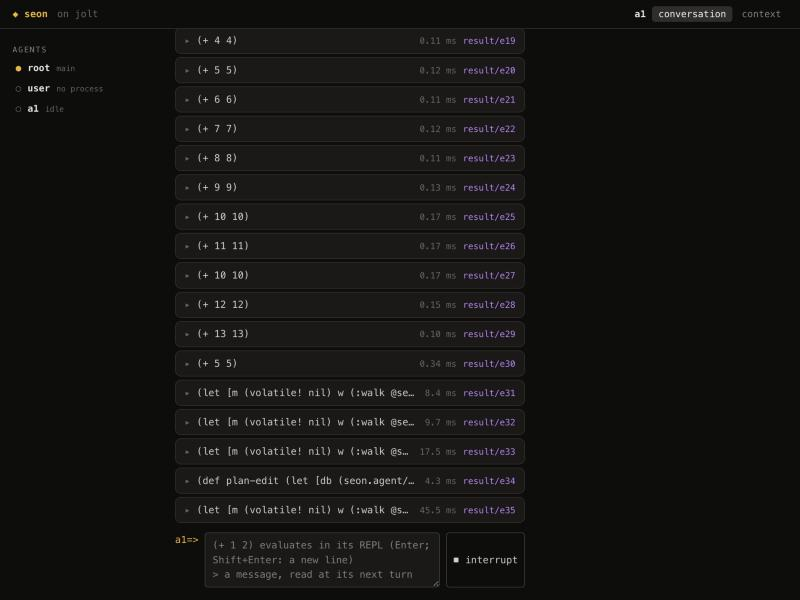
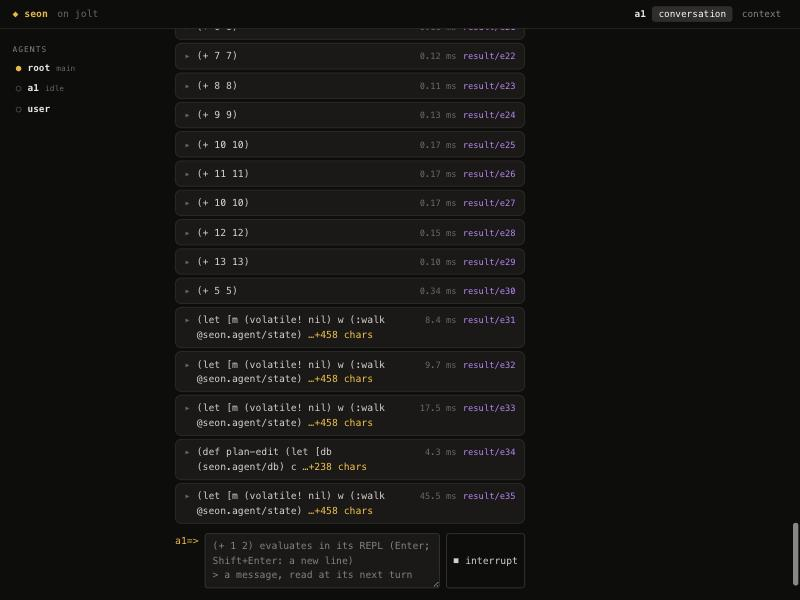
bin/prove's reds: the clocks law's quoted site is under render-test/task now; main's my.root/source-changes named among the cuts; root reads its tiles first, its test says so

diff --git a/docs/clocks.md b/docs/clocks.md
@@ -57,7 +57,7 @@ A bound passed under another name, which the marks do not see; each is owed its 
 
 Names that look like clock reads but are quoted as data, so no time decides at these sites.
 
-- `seon.program-test/var-row` (the form after it records a guarded function's source, `Thread/sleep` and a timed `deref` as text) and `seon.render-test/long-text` (the test after it names the removed `SAMPLE-MS` to show it is gone): clock reads quoted as data.
+- `seon.program-test/var-row` (the form after it records a guarded function's source, `Thread/sleep` and a timed `deref` as text) and `seon.render-test/task` (the test after it names the removed `SAMPLE-MS` to show it is gone): clock reads quoted as data.
 - `seon.check/hidden-inputs`, `seon.check/named-test-inputs`: the lists the `test-inputs` check step reads test forms against (a clock read, a sleep, a timeout among the names they hold); they name those vars as data and read no clock.
 
 ## Time orders a queue (measured workload)

diff --git a/docs/render.md b/docs/render.md
@@ -144,6 +144,7 @@ Uses of take, subs and the like in display code that choose what to find or read
 - `seon.agent/embed-written!`: the first `:seon.config.vector/texts` of the texts due go in one `:embed` request (`take`), the rest stay due for the next: a batch bound on work, not a cut of output.
 - `my.agent/file-source`, `seon.repl/form-src`: a form's own text out of its file or its reply (`subs` at a reader's offsets).
 - `my.root/task-files`: a task file's owning namespace from its file name (`subs` off the `.edn`).
+- `my.root/source-changes`: a changed file's path relative to its checkout (`subs` off the checkout's prefix).
 - `seon.render.ui/utc-offset-ms`: parsing `:seon.config.web/utc-offset`.
 - `seon.web/handler`, `seon.web/view-of`, `seon.server/mcp-reply`: parsing a request's path and a tool's name.
 - `seon.context/near`: the whole line a repaired delimiter is on, the printer budgets it.
